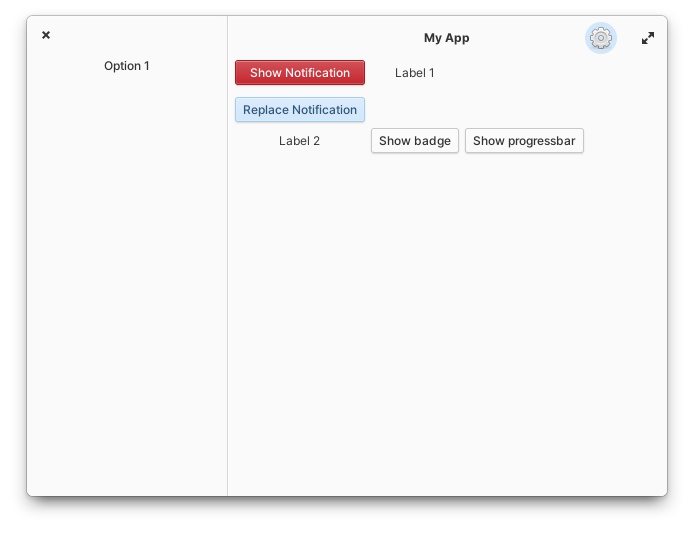
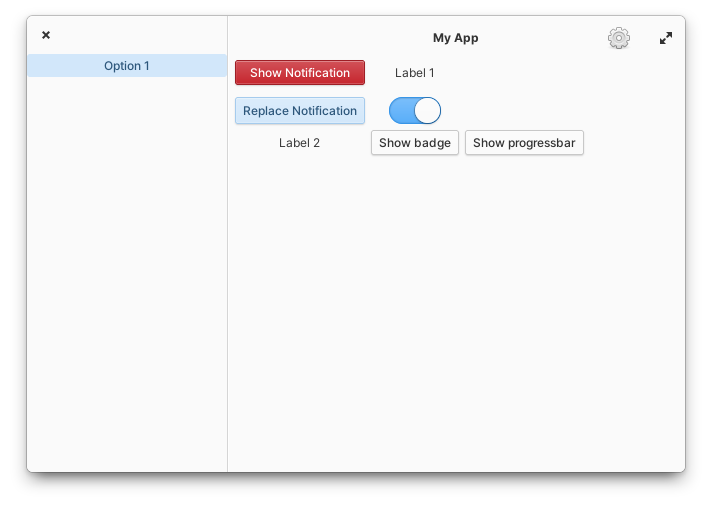
Add gsetting to save state and prefered user style light or dark

diff --git a/README.md b/README.md
@@ -1,6 +1,6 @@
 # gtk-hello
 
-This is an example Vala and GTK+ 4 Application (includes i18n translations, icons, metadata for appstore, and more).
+This is an example Vala and GTK+ 4 Application (includes i18n translations, save application state using GSettings, icons, metadata for appstore, and more).
 
 ![screenshot](./data/images/screenshot.png)
 
